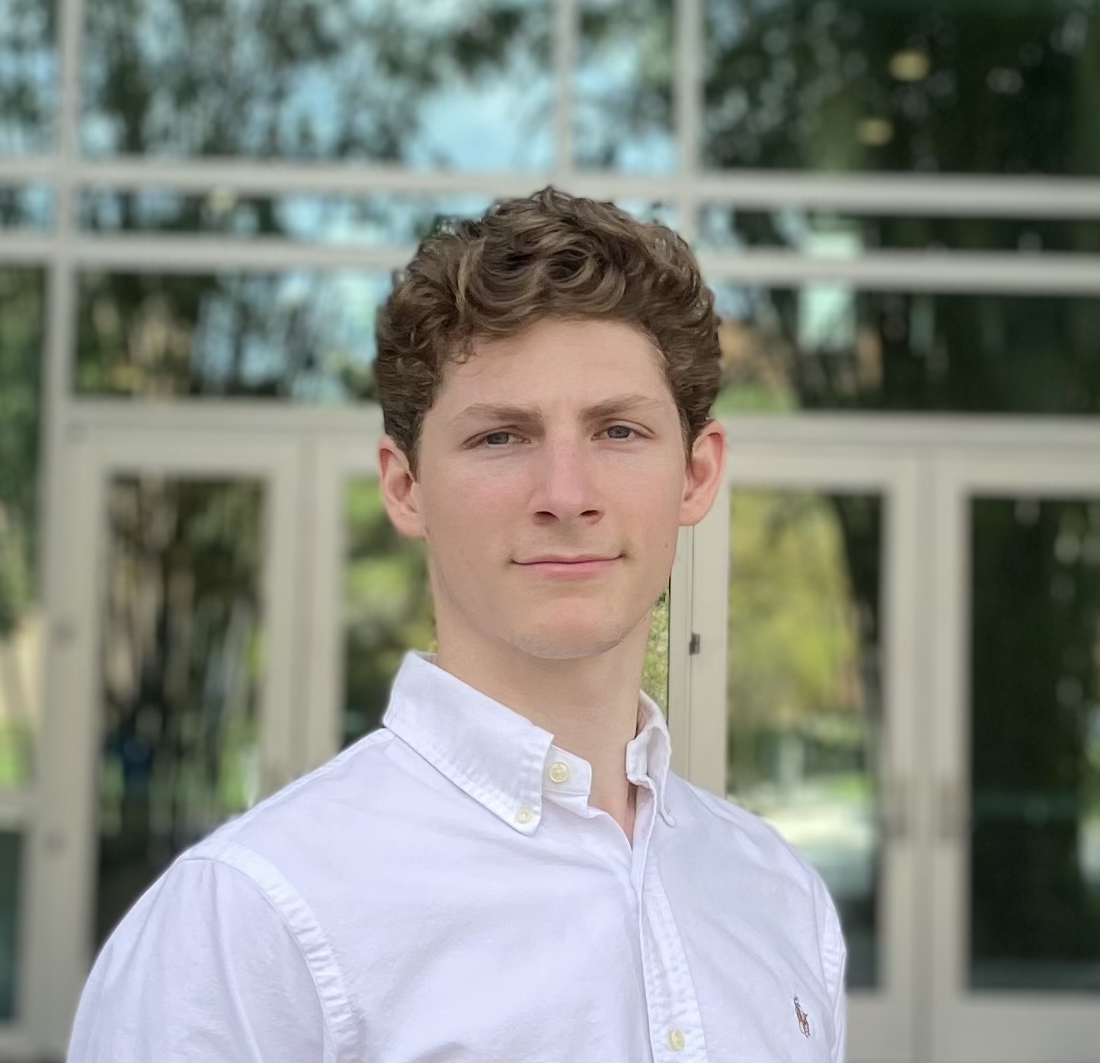
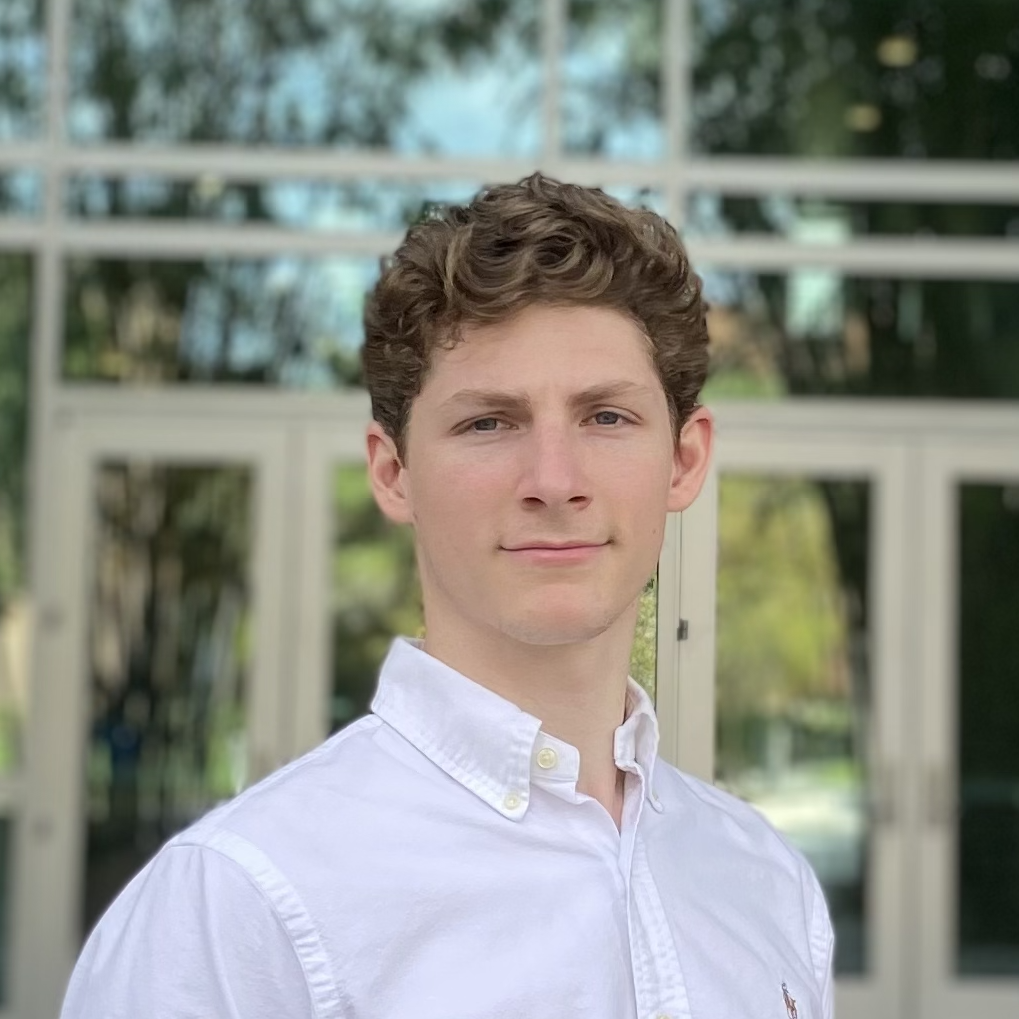
Added hero

diff --git a/client/src/pages/Home.jsx b/client/src/pages/Home.jsx
@@ -1,12 +1,12 @@
 import React, { useEffect, useRef } from "react";
-import { Container, Row, Col, Card, Image } from "react-bootstrap";
+import { Container, Row, Col, Card } from "react-bootstrap";
 import ApplePickerThumb from "../assets/applePickerThumb.png";
 import BingoThumb from "../assets/bingoThumb2.jpg";
 import TypeRacerThumb from "../assets/typeRacerThumb.png";
-import Portrait from "../assets/portrait.png";
 import { Link as ScrollLink, animateScroll as scroll } from "react-scroll";
 import "./Home.css";
 import Resume from "./resume.jsx";
+import Hero from "../components/Hero.jsx";
 
 import { Link, useLocation } from "react-router-dom";
 
@@ -55,28 +55,15 @@ export default function Home(props) {
   }, []);
 
   return (
-    <Container className="pageContainter">
-      <div
-        id="hero"
-        style={{ display: "flex" }}
-        className="xl-screen-100vh align-items-center"
-      >
-        <Image
-          src={Portrait}
-          alt={"Portait of Will M"}
-          style={{ height: 300 }}
-          rounded
-        ></Image>
-        <div style={{}} className="p-4">
-          <h1>
-            <i>WILL MITCHELL</i>
-          </h1>
-          <h2>Software Developer</h2>
-          <h2>Computer Science, UCF 2023 </h2>
-        </div>
-      </div>
+    <Container>
+      <Row id="hero" style={{ height: "100vh" }}>
+        <Hero />
+      </Row>
 
-      <Row className="xl-screen-100vh align-items-center">
+      {/* <Row id="bio"></Row>
+      <Row id="Experience"></Row> */}
+
+      <Row className="xl-screen-100vh align-items-center ">
         <Container>
           <Row
             style={{ marginBottom: "2rem" }}

diff --git a/client/src/pages/Home.css b/client/src/pages/Home.css
@@ -6,11 +6,16 @@
   transform: scale(1.05);
 }
 
+.center-both {
+  display: flex;
+  align-items: center;
+  justify-content: center;
+}
+
 @media (max-width: 576px) {
   .sm-col-margin {
     margin-left: 0.5rem;
     margin-right: 0.5rem;
-    /* margin-bottom: 1rem; */
   }
   .sm-justify-left {
     text-align: start;
@@ -18,8 +23,14 @@
   .sm-padding-top {
     padding-top: 4rem;
   }
-  .sm-photo-height {
-    height: 25;
+}
+
+@media (max-width: 992px) {
+  .sm-screen-top-padding {
+    padding-top: 2rem;
+  }
+  .sm-50 {
+    height: 50%;
   }
 }
 
@@ -27,14 +38,29 @@
   .xl-screen-100vh {
     height: 100vh;
   }
+  .lg-center {
+    display: flex;
+    align-items: center;
+    justify-content: center;
+  }
+  .lg-100 {
+    height: 100%;
+  }
 }
 
-@media (min-width: 576px) {
-  .lg-center {
-    text-align: center;
+@media (max-width: 766px) {
+  .sm-padding-top {
+    padding-top: 50%;
   }
+}
 
-  .lg-padding-top {
-    padding-top: 2rem;
-  }
+.scroll-container {
+  height: 100vh; /* Set container height to full viewport height */
+  overflow-y: scroll; /* Enable vertical scrolling */
+  scroll-snap-type: y mandatory; /* Enable vertical scroll snapping */
+}
+
+.scroll-child {
+  height: 100vh; /* Set each row to take up full viewport height */
+  scroll-snap-align: start; /* Snap each row to the start of the container */
 }

diff --git a/client/src/components/Hero.jsx b/client/src/components/Hero.jsx
@@ -1,0 +1,29 @@
+import React from "react";
+import { Image } from "react-bootstrap";
+import Portrait from "../assets/portrait.png";
+
+export default function Hero() {
+  return (
+    <div className="d-flex flex-wrap">
+      <div className="center-both">
+        <div>
+          <Image
+            src={Portrait}
+            alt={"Portait of Will"}
+            style={{ width: 300 }}
+          />
+        </div>
+      </div>
+
+      <div className="center-both">
+        <div>
+          <h1>
+            <i>WILL MITCHELL</i>
+          </h1>
+          <h2>Software Developer</h2>
+          <h2>Computer Science, UCF 2023 </h2>
+        </div>
+      </div>
+    </div>
+  );
+}
